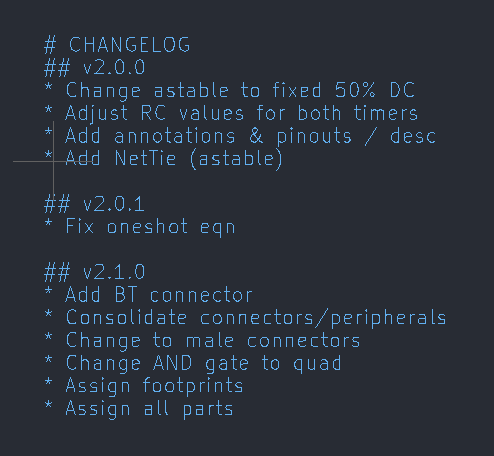
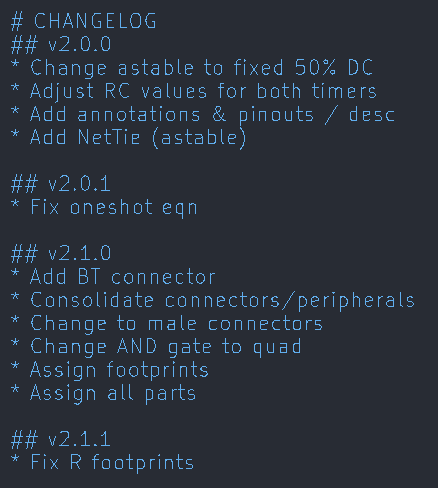
update changelog and PDF for Gradescope

diff --git a/labs/05-Prep-Schematic-4-PCB/Prototyping-S23-05-Lab-Prep-Schematic-4-PCB.tex b/labs/05-Prep-Schematic-4-PCB/Prototyping-S23-05-Lab-Prep-Schematic-4-PCB.tex
@@ -40,10 +40,10 @@
 \author{MedTech Prototyping Skills (BME290L)}
 \maketitle
 
-\section{Update Board to \texttt{v2.1.0}}
+\section{Update Board to \texttt{v2.1.1}}
 
 \begin{itemize}
-    \item Upgrade circuit schematic to \texttt{v2.1.0} ()\url{https://mlp6.pages.oit.duke.edu/MedTech-Prototyping-Skills/Prototyping-S23-one-shot-blinking-light-v2.1.0.pdf})
+    \item Upgrade circuit schematic to \texttt{v2.1.1} (\url{https://mlp6.pages.oit.duke.edu/MedTech-Prototyping-Skills/Prototyping-S23-one-shot-blinking-light-v2.1.0.pdf})\footnote{\texttt{v2.1.1} and \texttt{v2.1.0} have the same rendered schematic.}
     \item Note the \texttt{CHANGELOG} on the schematic.
 \end{itemize}
 
@@ -82,4 +82,12 @@
 \begin{itemize}
     \item \texttt{Tools -> Generate BOM\dots} (include footprints)
 \end{itemize}
+
+\section{What to Submit}
+A single PDF containing:
+\begin{itemize}
+    \item The sheets of your augmented schematic, versioned at \texttt{v3.x.x}.
+    \item Rendered BOM with footprint descriptions.
+\end{itemize}
+
 \end{document}
